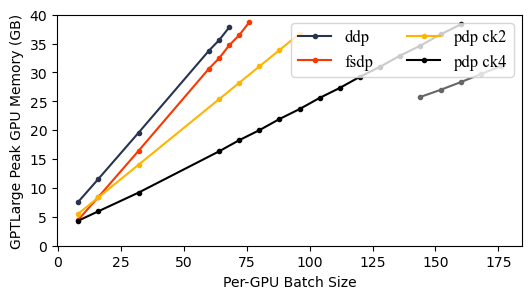
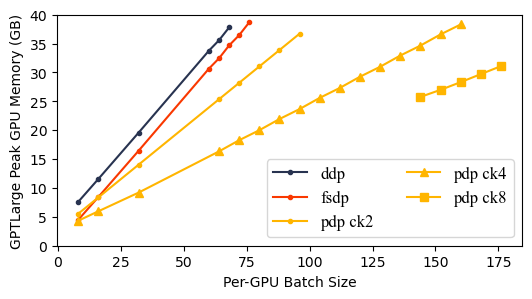
add more data

diff --git a/draw_model_scale.py b/draw_model_scale.py
@@ -13,35 +13,55 @@ FONT = {'fontname':'Times New Roman', 'size':12}
 FIG_TYPE = "png"
 
 
+# world size = 32, per-GPU batch size = 16
+
 ddp = [
   [125,  350,  760,   1300,  2700],  # GPTSmall, Medium, Large, Xl, XXL
   [0.28, 0.75, 1.43,  2.55,  5.13],  # per-iteration delay
   [3625, 8014, 11548, 16748, 29088], # Peak mem
 ]
 
+ddp_checkpoint = [
+  [125,  350,  760,  1300, 2700],
+  [0.31, 0.85, 1.43, 2.93, 4.22],
+  [2069, 3186, 5660, 9278, 17425],
+]
+
+ddp_offload = [
+  [125,  350,  760,  1300, 2700],
+  [0.29, 0.71, 1.31, 2.97, 4.95],
+  [1994, 3047, 5649, 9278, 17427],
+]
+
 fsdp = [
-  [125,  350,  760,   1300,  2700,  6700,  13000],  # GPTSmall, Large, Xl, XXL, XXXL
-  [0.46, 0.00, 2.77,  3.55,  7.35,  22.89, 0.00],
-  [3056, 0000, 8423,  11416, 18555, 26230, 0000]
+  [125,  350,  760,  1300,  2700,  6700],  # GPTSmall, Large, Xl, XXL, XXXL
+  [0.46, 1.24, 2.77, 3.55,  7.35,  22.89],
+  [3056, 6543, 8423, 11416, 18555, 26230],
 ]
 
 fsdp_checkpoint = [
-  [125,  350,  760,   1300,  2700,  6700,  13000],
-  [0.55, 0.00, 2.75,  5.01,  8.66,  25.85, 0.00],
-  [1091, 0000, 1575,  1891,  2434,  3678,  0000]
+  [125,  350,  760,  1300,  2700,  6700,  13000, 39000,  76000],
+  [0.55, 1.45, 2.75, 5.01,  8.66,  25.85, 52.43, 143.14, 319.67],
+  [1091, 1306, 1575, 1891,  2434,  3678,  6136,  10649,  20770],
 ]
 
 fsdp_offload = [
-  [125,  350,  760,   1300,  2700,  6700,  13000],
-  [0.54, 0.00, 2.62,  7.20,  8.63,  20.79, 0.00],
-  [1016, 0000, 1273,  1485,  1763,  2604,  0000],
+  [125,  350,  760,  1300,  2700,  6700,  13000, 3900,   76000],
+  [0.54, 1.26, 2.62, 7.20,  8.63,  20.79, 60.18, 141.54, 322.60],
+  [1016, 1104, 1273, 1485,  1763,  2604,  4152,  7692,   15429],
 ]
 
 
 pdp_ck2 = [
-  [125,  350,  760,   1300,  2700,  6700,  13000],
-  [0.27, 0.00, 1.15,  0.00,  4.90,  9.02,  0.00],
-  [2131, 0000, 5534,  0000,  13877, 14458, 0000],
+  [125,  350,  760,  1300,  2700,  6700,  13000],
+  [0.27, 0.00, 1.15, 0.00,  4.90,  9.02,  0.00],
+  [2131, 0000, 5534, 0000,  13877, 14458, 0000],
+]
+
+pdp_ck2_checkpoint = [
+]
+
+pdp_ck2_offload = [
 ]
 
 pdp_ck4 = [
@@ -49,4 +69,36 @@ pdp_ck4 = [
   [0.35, 0.00, 1.40,  0.00,  4.32,  9.68,  0.00],
   [1566, 0000, 4327,  0000,  11473, 12759, 0000],
 ]
+
+pdp_ck4_checkpoint = [
+]
+
+pdp_ckk_offload = [
+]
+
+
+
+
+
+
+
+
+
+
+
+
+
+
+
+
+
+
+
+
+
+
+
+
+
+
 

diff --git a/draw_scalability_bs.py b/draw_scalability_bs.py
@@ -5,8 +5,6 @@ COLORS = [
   "#283350",
   "#f93800",
   "#ffb500",
-  "#000000",
-  "#666666",
 ]
 
 FONT = {'fontname':'Times New Roman', 'size':12}
@@ -61,9 +59,9 @@ def plot_qps(model, blk_size=256, show=True):
     # pdp ck=2
     plt.plot(pdp_ck2[0], qps(pdp_ck2[0], pdp_ck2[1]), '.-', color=COLORS[2])[0],
     # pdp ck=4
-    plt.plot(pdp_ck4[0], qps(pdp_ck4[0], pdp_ck4[1]), '.-', color=COLORS[3])[0],
+    plt.plot(pdp_ck4[0], qps(pdp_ck4[0], pdp_ck4[1]), '^-', color=COLORS[2])[0],
     # pdp ck=8
-    plt.plot(pdp_ck8[0], qps(pdp_ck8[0], pdp_ck8[1]), '.-', color=COLORS[4])[0],
+    plt.plot(pdp_ck8[0], qps(pdp_ck8[0], pdp_ck8[1]), 's-', color=COLORS[2])[0],
   ])
 
   plt.legend(
@@ -74,6 +72,7 @@ def plot_qps(model, blk_size=256, show=True):
         "fsdp",
         "pdp ck2",
         "pdp ck4",
+        "pdp ck8",
       ],
       prop={'family':FONT['fontname'], 'size':FONT['size']},
       ncol=2,
@@ -105,19 +104,20 @@ def plot_mem(model, blk_size=256, show=True):
     # pdp ck=2
     plt.plot(pdp_ck2[0], gb(pdp_ck2[2]), '.-', color=COLORS[2])[0],
     # pdp ck=4
-    plt.plot(pdp_ck4[0], gb(pdp_ck4[2]), '.-', color=COLORS[3])[0],
+    plt.plot(pdp_ck4[0], gb(pdp_ck4[2]), '^-', color=COLORS[2])[0],
     # pdp ck=8
-    plt.plot(pdp_ck8[0], gb(pdp_ck8[2]), '.-', color=COLORS[4])[0],
+    plt.plot(pdp_ck8[0], gb(pdp_ck8[2]), 's-', color=COLORS[2])[0],
   ])
 
   plt.legend(
       handles=handles,
-      loc="upper right",
+      loc="lower right",
       labels=[
         "ddp", 
         "fsdp",
         "pdp ck2",
         "pdp ck4",
+        "pdp ck8",
       ],
       prop={'family':FONT['fontname'], 'size':FONT['size']},
       ncol=2,
